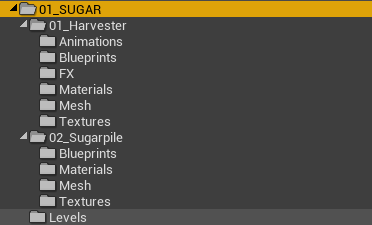
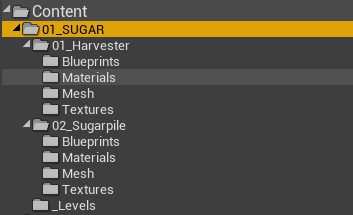
вторая итерация дока с обучением

Changed region(s): [[0.0, 0.0, 1.0, 1.0]]

diff --git a/contentcreation_ue427.md b/contentcreation_ue427.md
@@ -1,38 +1,78 @@
 # **Как подготовить ассеты на Unreal Engine 4.27 для Carrot**
 
-> В этом разделе на примерах вы узнаете, как создавать ассеты, готовые для работы с Carrot. В раздел входит структура папок, правильная иерархия элементов на уровне, вынесение объектов на слои в редакторе для удобной работы и настройка управляющей логики под наш плейлист.
+> В этом разделе на примерах вы узнаете, как создавать ассеты, готовые для работы с Carrot.
+<br>Процессы моделлирования, текстурирования и т.д. затрагиваться не будут.
+<br>
+<br>В раздел входит: 
+<br>1. Структура папок и нейминг ассетов внутри Content Browser.
+<br>1.1. Структура папок
+<br>1.2. Нейминг ассетов
+<br>1.2.1 Нейминг материалов
+<br>1.2.2 Нейминг текстур
+<br>2. Иерархия элементов внутри World Outliner.
+<br>3. Разделение объектов на слои для удобной работы через Layers.
+<br>4. Создание и настройка управляющей логики под наш плейлист.
 
-## **Cтруктура папок. Как правильно это делать**
+## **1. Структура папок и нейминг ассетов внутри Content Browser. Как правильно это делать.**
 
-У каждого ассета должна быть своя папка, желательно с порядковым номером и капсом. Это очень круто и удобно. Внутри будут появляться папки с названием содержимого:
+Пример, нам прислали следующие подводки:
+
+1. На подводку к сюжету про сахар ставим свеклоуборочный комбайн, позади него гора сахара, которую он образно произвел. Сыпать из комбайна на гору сахар не нужно, но у него что-то должно двигаться, работать.
+
+2. На подводку к сюжету о логистике нужен корабль контейнеровоз и кран, загружающий/разгружающий контейнер. Можно попробовать налить воды ниже уровня сцены, но только если она будет реалистичной.
+
+3. Великая Европейская стена. Типа отделяет Запад от России. Стена наподобие китайской. Идет из экрана ( из за горизонта ) - слева от таблетки. Извилистая. Перед таблеткой как бы ворота в стене. Перед ней стоит фура , современная. Типа не может попасть на запад.
+
+4. Тема про жилье. Слева от таблетки строительный кран, со стрелой над таблеткой, кран поднимает плиту. Справа от таблетки строящийся дом( еще недостроен до крыши) Кран работает, плиту переносит на дом. В какой то момент плита зависает на таблеткой - типа стройка остановилась. Надо еще небо. А по периметру над декорациями высятся готовые высотки, целый город
+
+Мы выбрали подводку к сюжету про сахарную гору и комбайн с определенным действием по кнопке для AR проекта. С чего начать?
+
+<br>
+
+### **1.1. Структура папок**
+У каждого ассета должна быть своя папка, желательно с порядковым номером и написанием капсом. Это очень ***круто*** и ***удобно***.
+
+По имени и нумерации найти папку со всем необходимым проще, чем метаться между **всем** контентом, не правда ли? А ведь ещё это можете быть не вы, а инженер на мероприятии, которому погружаться в особенности вашего творческого беспорядка будет некогда.
+
+Лучше всего это сделать сразу, т.к. потом в процессе переименовывания/перетаскивания у ассетов могут слететь ссылки на меши/материалы/текстуры, либо анрил просто сложится.
+
+В `Content Browser`, внутри `Content` создаём папку с названием содержимого. Это может быть название подводки, сюжета или главного объекта. В нашем случае это `01_SUGAR`, нумерация соответствует нумерации списка от заказчика со всеми подводками к выпуску:
 
 ![Simple Folder Structure](images/contentcreation_ue427/folderstructure_01.png)
 
-В вашей папке могут быть и будут:
+В созданной папке `01_SUGAR` создаем следующие подпапки по мере надобности:
  
-    Animations - всякие анимации для Skeletal Mesh, алембики, секвенцеры и т.д.
-    Blueprints - управляющие блупринты, префабы объектов, Material Parameter Collection и т.д.
-    FX - эффекты Niagara и Cascade
-    Levels - уровни с объектами
-    Materials
-    Mesh
-    Textures
+Название папки | Описание
+-|-
+**Animations** | Анимации для Skeletal Mesh, алембики, секвенцеры и т.д.
+**Blueprints** | Управляющие блупринты, префабы объектов, Material Parameter Collection и всё остальное, что связано с логикой.
+**FX** | Эффекты Niagara и Cascade
+**Levels** | Уровни с объектами
+**Materials** | -
+**Mesh** | Сюда кидаем наши импортнутые FBX, OBJ и т.д.
+**Textures** | -
 
-Если подходящих объектов для папки нет, тех же анимаций, то смысла создавать папку нет.
-
-Если объектов внутри одного сюжета несколько, то сначала надо создать папку с именем объекта, а внутри неё уже устраивать наполнение по умолчанию. Структура будет иметь следующий вид:
+<br>Если объектов внутри одной подводки несколько, то сначала надо создать папку с именем объекта, а внутри неё уже устраивать наполнение по умолчанию. У нас эта структура будет иметь следующий вид:
 
 ![Advanced Folder Structure](images/contentcreation_ue427/folderstructure_02.png)
 
-В примере выше объекты не имеют отдельных уровней и собраны вместе на одном, поэтому папка `Levels` находится в корне папки `01_SUGAR`.
+Название папки | Описание
+-|-
+`01_SUGAR` | Название папки с подводкой
+`01_Harvester` | Папка со всем содержимым для свеклоуборочного комбайна
+`02_Sugarpile` | Папка со всем содержимым для горы сахара
 
-### **Материалы**
+>## В примере выше объекты не имеют отдельных уровней под комбайн и гору, т.к. объекты простые, поэтому они собраны вместе на одном, поэтому папка `_Levels` находится в корне папки `01_SUGAR` и визуально выделена нижним подчеркиванием.
+<br>
+
+### **1.2. Нейминг ассетов**
+#### **1.2.1 Нейминг материалов**
 
 Материалы называем также как и ассет, если требуется разбить на несколько материалов, то пишем `M_` + `название ассета` + `_название детали или группы деталей`. Если используем мастер материалы, то пишем `MM_` + `название ассета`, а инстансы подписываем `MI_` + `название ассета` + `_название детали или группы деталей`.
 
-> Кому интересны все рекомендованные префиксы ассетов - [ссылка на док](https://docs.unrealengine.com/4.27/en-US/ProductionPipelines/AssetNaming/).
+>## Кому интересны все рекомендованные префиксы ассетов - [ссылка на док](https://docs.unrealengine.com/4.27/en-US/ProductionPipelines/AssetNaming/).
 
-**Пример:**
+<br>**Пример:**
     
     M_Harvester_glass
     M_Harvester_wheels
@@ -41,12 +81,14 @@
     M_Harvester_plastic
     MM_Harvester
     MI_Harvester_wheels
+<br>
 
-### **Текстуры**
+#### **1.2.2 Нейминг текстур**
 
 Текстуры называем по той же логике что и все остальное: `T_название ассета_суффикс`.
 
-> **T** for **ТЕКСТУРА**
+>## **T** for **ТЕКСТУРА**
+<br>
 
 Тип текстуры | Суффикс
 -|-
@@ -62,61 +104,66 @@
 **Light Map (fake)** | _L
 **Mask** | _MA
 
+<br>
+
 **Пример:**
     
     T_Harvester_D
     T_Harvester_M
     и.т.д.
 
-## **Иерархия объектов на уровне. Как надо, чтобы инженеры зауважали**
+## **2. Иерархия элементов внутри World Outliner. Как надо, чтобы инженеры зауважали.**
 
-Первым делом нужно создать новый уровень, в который мы будем накидывать объекты и настраивать, по первому времени, ассеты. Уровень называем по имени главного ассета, либо подводки, под которую ассеты создаются: `название ассета`. Если уровень составной или имеет несколько итераций, то пишем `название ассета` + `_назначение` + `_порядкой номер`.
+Первым делом мы создаём новый уровень, в который будем накидывать объекты и настраивать, по первому времени, ассеты. Называем его по имени основного объекта, либо подводки под которую ассеты создаются без префиксов: `название`. Если уровень составной или имеет несколько итераций, то пишем `название` + `_назначение` + `_порядкой номер`. Если над проектом пыхтят несколько трудяг одновременно, то каждый создаёт себе новый уровень с обозначением того, что на этом уровне делалось.
+
+<br>
 
 **Пример:**
     
-    SUGAR
-    SUGAR_lighting
-    SUGAR_lighting_02
-    SUGAR_02_environment_03
+    01_SUGAR
+    01_SUGAR_lighting
+    01_SUGAR_lighting_02
+    01_SUGAR_02_environment_03
     и.т.д.
+>## Составные уровни в 99% случаев используются при создании глобальных сцен (студии, пустыни, города, поля) под VR проект на зелёнке. Отдельно освещение, отдельно объекты ближнего плана, дальнего плана, ключевые объекты и т.д.<br><br>В AR проектах такая реализация используется меньше. Если ассет делали несколько людей, то финальный результат должен быть в одном уровне.
+<br>
 
-Открываем уровень, кидаем объекты, развлекаемся.
-    ![Asset Viewport Preview](images/contentcreation_ue427/viewport_01.png)
+Открываем уровень, кидаем объекты, развлекаемся. В процессе творения получилось что-то такое:
+<br>
 
-Итак, структура папок создана, текстуры и анимации раскиданы по папкам, материалы накручены, блупринты накожены, свет выставлен. **Что дальше?**
+![Asset Viewport Preview](images/contentcreation_ue427/viewport_01.png)
+
+<br>
+
+Cтруктура папок создана, текстуры и анимации раскиданы по папкам, материалы накручены, блупринты накожены, свет выставлен. **Что дальше?**
 
 После всех наших первичных манипуляций иерархия уровня, скорее всего, будет выглядеть так:
-    ![Outliner hierarchy unsorted](images/contentcreation_ue427/outliner_hierarchy_unsorted.png)
+
+![Outliner hierarchy unsorted](images/contentcreation_ue427/outliner_hierarchy_unsorted.png)
+
+>## В данном примере мы выбрали реализацию через упаковку геометрии с анимацией и логикой напрямую в **Actor Blueprint** (ещё называют Prefab) `BP_Harvester` и `BP_SugarPile`. Зачем и почему, как сделать и какие ещё виды реализации существуют читаем [здесь](TODO).
+<br>
+
+В итоге получается полная каша и неразбериха. Как создатель вы, возможно, и сможете ориентироваться в подобном, но любой другой после вас **вряд ли**. 
+
+Нам нужно сделать так, чтобы эти объекты было легко найти среди остального контента `World Outliner` собранного на эфир проекте, мы могли перетаскивать, крутить и масштабировать объекты, причем чтобы мы могли двигать объект как вместе со всем освещением, так и отдельно от него, не ломая выполнение логики в **Actor Blueprint**.
 
 На выходе мы должны получить следующую иерархию:
-    ![Outliner hierarchy sorted](images/contentcreation_ue427/outliner_hierarchy_sorted.png)
+
+![Outliner hierarchy sorted](images/contentcreation_ue427/outliner_hierarchy_sorted.png)
+
+<br>
 
 Почему такую? **Разбираемся**:
 
-```
-. level_SUGAR (Editor)
-├── 📁 01_SUGAR
-│  ├── 🔵 null_Harvester
-│  │  ├── 🟢 hlp_Harvester
-│  │  │  ├── 🔴 BP_Harvester
-│  │  ├── 💡 RL_Harv_01
-│  │  ├── 💡 RL_Harv_02
-│  │  ├── 💡 RL_Harv_03
-│  │  ├── 💡 RL_Harv_04
-│  ├── 🔵 null_SugarPile
-│  │  ├── 🟢 hlp_SugarPile
-│  │  │  ├── 🔴 BP_SugarPile
-│  │  ├── 💡 PL_Sugar_01
-│  │  ├── 💡 PL_Sugar_02
-│  │  ├── 💡 PL_Sugar_03
-│  │  ├── 💡 PL_Sugar_04
+📁 - папка, в которой мы храним все объекты сцены. Когда на уровне будет 10-20 разных ассетов и нужно будет быстро переключаться между ними, папки - ваше спасение.
+🔵 - Empty Actor, к которому привязаны все, что относится к объекту. За него можно быстро перетащить всю структуру вместе со светом и ничего не потерять.
+🟢 - Empty Actor,
+🔴 - Blueprint с нашим объектом. Перетаскивать его напрямую в сессии мультиюзера крайне не рекомендуется, т.к. высока вероятность, что выполнение логики остановится.
+💡 - Разные источники света, крутятся вместе с 🔵 null
 
-    📁 - папка, в которой мы храним все объекты сцены. Когда на уровне будет 10-20 разных ассетов и нужно будет быстро переключаться между ними, папки - ваше спасение.
-    🔵 - Empty Actor, к которому привязаны все, что относится к объекту. За него можно быстро перетащить всю структуру вместе со светом и ничего не потерять.
-    🟢 - Empty Actor,
-    🔴 - Blueprint с нашим объектом. Перетаскивать его напрямую в сессии мультиюзера крайне не рекомендуется, т.к. высока вероятность, что выполнение логики остановится.
-    💡 - Разные источники света, крутятся вместе с 🔵 null
-```
 
 # TODO
 - [] Проверяем Pivot в блупринте
+- [] Виды реализации контента для Carrot. Разница, преимущества и недостатки.
+- [] Sort Transnlucency

diff --git a/_sidebar.md b/_sidebar.md
@@ -1,1 +1,1 @@
-- [Установка компонентов](installation.md)
+- [Создание контента для UE 4.27](contentcreation_ue427.md)
